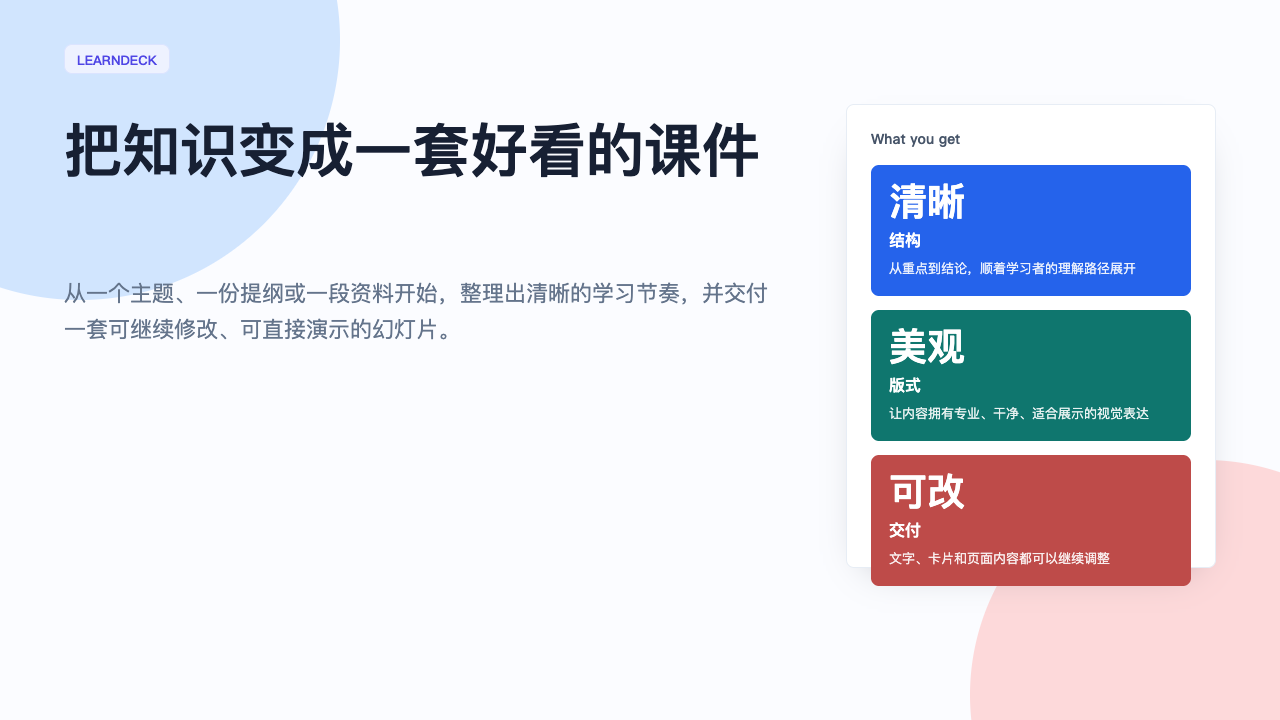
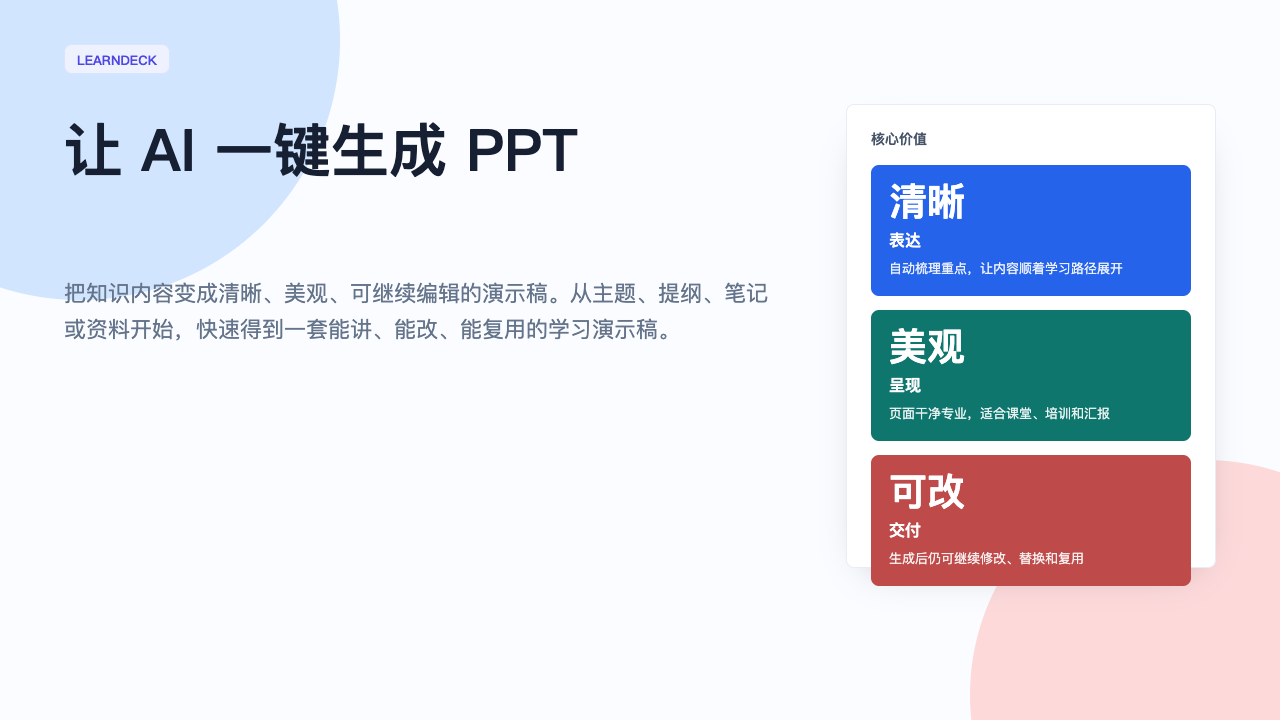
Make English README default and add English screenshots

diff --git a/README.en.md b/README.en.md
@@ -1,78 +1,69 @@
 # LearnDeck English Introduction
 
 <p align="center">
-  <img src="assets/learn-deck-cover.png" alt="LearnDeck cover preview" width="900">
+  <img src="assets/learn-deck-cover-en.png" alt="LearnDeck cover preview" width="900">
 </p>
 
 ## What Is LearnDeck?
 
-LearnDeck is a presentation companion built for learning content.
+LearnDeck is an AI presentation companion for learning content.
 
-You can start with a topic, an outline, a course brief, an article summary, study notes, or even a rough idea. LearnDeck helps shape that material into a clear, polished, editable presentation deck that is easier to teach, easier to follow, and easier to refine.
+It helps you turn a topic, outline, notes, course material, article summary, or rough idea into a clear, beautiful, editable PPT. Instead of starting from a blank deck, you start with knowledge. LearnDeck helps shape that knowledge into a presentation people can follow.
 
-Its purpose is simple: turn knowledge into a learning path, not just a pile of slides.
+The idea is simple: let AI create the first high-quality PPT for you, then keep the result easy to revise, personalize, and reuse.
 
-## What Problem Does It Solve?
+## Why It Exists
 
-Most learning material does not fail because it lacks information. It usually struggles because the message is hard to organize and present:
+Learning content often has enough substance, but turning it into a deck takes time:
 
-- There are many important points, but no clear order
-- Notes are scattered and need a presentation-friendly structure
-- Slides become too text-heavy and hard to scan
-- Training or course material needs a more polished appearance
-- The final deck should remain editable and reusable
+- You need a clear order for the ideas
+- You need pages that are easy to scan
+- You need a polished look that feels presentation-ready
+- You need the result to stay editable after generation
+- You need something that works for teaching, training, reporting, or sharing
 
-LearnDeck is designed for exactly this kind of work. It acts like a thoughtful deck partner: first helping the content make sense, then turning it into pages that feel ready to present.
+LearnDeck is designed for that moment when you already have knowledge, but need a deck that makes it easier to teach and easier to understand.
 
-## Who Is It For?
+## Who It Is For
 
-LearnDeck is for anyone who needs to explain knowledge clearly:
+- Teachers, instructors, and workshop hosts
+- Course creators and knowledge creators
+- Teams preparing internal training or onboarding material
+- Learners and researchers turning notes into reports
+- Anyone who wants AI to turn scattered knowledge into a presentable PPT
 
-- **Teachers and instructors** who want to turn lesson plans into presentation-ready decks
-- **Course creators** who need polished materials for classes, workshops, or online lessons
-- **Knowledge creators** who want to turn articles, notes, and tutorials into shareable decks
-- **Training teams** preparing internal learning sessions and onboarding material
-- **Learners and researchers** who want to present study notes, summaries, or findings
-- **Teams** that need to turn scattered knowledge into meeting-ready pages
+## What You Get
 
-## What Do You Get?
+- **One-click PPT generation** from a topic, outline, notes, or learning material
+- **Clearer structure** with sections, key points, examples, and takeaways
+- **Polished pages** that feel ready for lessons, workshops, reports, and sharing
+- **Editable delivery** so you can keep refining the wording, flow, and style
+- **Reusable knowledge assets** that can grow into courses, training decks, or study reviews
 
-LearnDeck produces learning-oriented presentation decks, not just decorated pages.
-
-You can expect:
-
-- **A clearer structure** with topics, sections, highlights, examples, and takeaways
-- **A smoother teaching rhythm** arranged around how people understand information
-- **A more polished visual style** that works for lessons, workshops, reports, and sharing
-- **An editable result** that you can continue to revise, personalize, and reuse
-- **Reusable learning assets** that can become a course, a training deck, or a knowledge review
-
-## What Can You Create With It?
+## What Can You Create?
 
 LearnDeck is especially useful for:
 
 - Course introductions and lesson outlines
-- Classroom slides and knowledge cards
+- Classroom slides and learning cards
 - Internal training decks
 - Learning progress reports
-- Book club or study group presentations
+- Study group and book club presentations
 - Methodology explainers
 - Product or business knowledge training
 - Research summaries and knowledge reviews
 
-If the goal is to help people understand something more clearly, LearnDeck is a strong place to start.
+If your goal is to help people understand something more clearly, LearnDeck gives you a strong first deck.
 
 ## The Experience
 
-Using LearnDeck feels like a simple four-step flow:
-
-1. **Bring the material**: share a topic, notes, outline, article summary, or course content
-2. **Shape the story**: organize the material into titles, key points, examples, steps, and conclusions
-3. **Create the deck**: produce a coherent set of presentation pages with a consistent visual style
-4. **Refine the result**: adjust the tone, wording, sequence, brand, or classroom style
+1. **Bring content**: start with a topic, outline, notes, article summary, or course material
+2. **Let AI shape it**: organize the message into titles, key points, examples, and takeaways
+3. **Create PPT**: get a coherent deck with a clean visual style and a clear learning rhythm
+4. **Edit freely**: adjust wording, tone, brand, sequence, and classroom style
 
 <p align="center">
-  <img src="assets/learn-deck-flow.png" alt="LearnDeck flow preview" width="900">
+  <img src="assets/learn-deck-flow-en.png" alt="LearnDeck flow preview" width="900">
 </p>
 
 ## Why The Name LearnDeck?
@@ -81,12 +72,12 @@ Using LearnDeck feels like a simple four-step flow:
 
 “Deck” stands for a complete presentation that can be taught, shared, edited, and reused.
 
-LearnDeck is not about producing a single static page. It is about helping knowledge become a complete deck with flow, clarity, and presentation value.
+LearnDeck is not just a slide maker. It is a learning-deck partner that helps knowledge become a complete presentation with flow, clarity, and visual polish.
 
 ## Vision
 
-LearnDeck aims to make high-quality learning materials easier to create.
+LearnDeck aims to make high-quality learning decks easier to create.
 
-It is for people who already have ideas, notes, expertise, or teaching material, but do not want to spend most of their time wrestling with structure, layout, and polish. A good deck should help the presenter speak more clearly and help the audience understand more easily.
+It is for people who have ideas, notes, expertise, or teaching material, but do not want to spend most of their time shaping structure and polishing pages. A good PPT should help the presenter speak clearly and help the audience understand easily.
 
 LearnDeck exists to make that bridge lighter, faster, and more beautiful.

diff --git a/README.md b/README.md
@@ -1,69 +1,94 @@
 # LearnDeck
 
 <p align="center">
-  <img src="assets/learn-deck-cover.png" alt="LearnDeck cover preview" width="900">
+  <a href="README.zh-CN.md">简体中文</a> · English
 </p>
 
 <p align="center">
-  <strong>把知识内容变成清晰、美观、可继续编辑的学习演示稿。</strong><br>
-  <strong>Turn learning material into clear, polished, editable presentation decks.</strong>
+  <img src="assets/learn-deck-cover-en.png" alt="LearnDeck English cover preview" width="900">
 </p>
 
 <p align="center">
-  <a href="README.zh-CN.md">中文介绍</a> ·
-  <a href="README.en.md">English Introduction</a>
+  <strong>Let AI create PPTs in one click.</strong><br>
+  Turn knowledge into clear, polished, editable presentation decks.
 </p>
 
 ---
 
-## 中文简介
+## What Is LearnDeck?
 
-LearnDeck 是一个面向学习内容的演示稿创作助手。它适合把课程提纲、学习笔记、文章摘要、培训资料、知识复盘或一个简单主题，整理成一套结构清楚、视觉统一、可以继续修改的演示文稿。
+LearnDeck is an AI presentation companion for learning content.
 
-它关注的不是“把文件换一种格式”，而是帮助内容变得更容易讲、更容易看、更容易被学习者理解。
+It helps you turn a topic, outline, notes, course material, article summary, or rough idea into a clear, beautiful, editable PPT. Instead of starting from a blank deck, you start with knowledge. LearnDeck helps shape that knowledge into a presentation people can follow.
 
-### 适合谁
+The idea is simple: let AI create the first high-quality PPT for you, then keep the result easy to revise, personalize, and reuse.
 
-- 老师、讲师、训练营主理人
-- 知识博主、课程创作者、内容策划
-- 需要做内部培训、学习汇报、知识分享的团队
-- 想把零散笔记整理成正式演示材料的人
+## Why It Exists
 
-### 你会得到什么
+Learning content often has enough substance, but turning it into a deck takes time:
 
-- 一套可以直接讲解的学习演示稿
-- 更清楚的章节、重点和表达节奏
-- 更干净、更有质感的页面视觉
-- 可以继续编辑、替换文案和复用的交付物
+- You need a clear order for the ideas
+- You need pages that are easy to scan
+- You need a polished look that feels presentation-ready
+- You need the result to stay editable after generation
+- You need something that works for teaching, training, reporting, or sharing
 
-更多中文介绍见 [README.zh-CN.md](README.zh-CN.md)。
+LearnDeck is designed for that moment when you already have knowledge, but need a deck that makes it easier to teach and easier to understand.
 
----
+## Who It Is For
 
-## English Overview
+- Teachers, instructors, and workshop hosts
+- Course creators and knowledge creators
+- Teams preparing internal training or onboarding material
+- Learners and researchers turning notes into reports
+- Anyone who wants AI to turn scattered knowledge into a presentable PPT
 
-LearnDeck is a presentation companion for learning content. It helps turn course outlines, notes, article summaries, training material, knowledge reviews, or a simple topic into a clear, polished, editable presentation deck.
+## What You Get
 
-It is not just about producing slides. It is about shaping knowledge into a deck that is easier to teach, easier to follow, and easier to reuse.
+- **One-click PPT generation** from a topic, outline, notes, or learning material
+- **Clearer structure** with sections, key points, examples, and takeaways
+- **Polished pages** that feel ready for lessons, workshops, reports, and sharing
+- **Editable delivery** so you can keep refining the wording, flow, and style
+- **Reusable knowledge assets** that can grow into courses, training decks, or study reviews
 
-### Who It Is For
+## What Can You Create?
 
-- Teachers, trainers, mentors, and workshop hosts
-- Course creators, knowledge creators, and content planners
-- Teams preparing internal learning sessions or knowledge-sharing decks
-- Anyone who wants to turn scattered notes into a presentation-ready deck
+LearnDeck is especially useful for:
 
-### What You Get
+- Course introductions and lesson outlines
+- Classroom slides and learning cards
+- Internal training decks
+- Learning progress reports
+- Study group and book club presentations
+- Methodology explainers
+- Product or business knowledge training
+- Research summaries and knowledge reviews
 
-- A presentation deck ready for teaching or sharing
-- A clearer learning flow with sections, highlights, and takeaways
-- A polished visual style that makes ideas easier to scan
-- An editable deliverable you can refine and reuse
+If your goal is to help people understand something more clearly, LearnDeck gives you a strong first deck.
 
-Read the full English introduction in [README.en.md](README.en.md).
+## The Experience
 
----
+1. **Bring content**: start with a topic, outline, notes, article summary, or course material
+2. **Let AI shape it**: organize the message into titles, key points, examples, and takeaways
+3. **Create PPT**: get a coherent deck with a clean visual style and a clear learning rhythm
+4. **Edit freely**: adjust wording, tone, brand, sequence, and classroom style
 
 <p align="center">
-  <img src="assets/learn-deck-flow.png" alt="LearnDeck flow preview" width="900">
+  <img src="assets/learn-deck-flow-en.png" alt="LearnDeck English flow preview" width="900">
 </p>
+
+## Why The Name LearnDeck?
+
+“Learn” stands for learning content, knowledge sharing, and teaching moments.
+
+“Deck” stands for a complete presentation that can be taught, shared, edited, and reused.
+
+LearnDeck is not just a slide maker. It is a learning-deck partner that helps knowledge become a complete presentation with flow, clarity, and visual polish.
+
+## Vision
+
+LearnDeck aims to make high-quality learning decks easier to create.
+
+It is for people who have ideas, notes, expertise, or teaching material, but do not want to spend most of their time shaping structure and polishing pages. A good PPT should help the presenter speak clearly and help the audience understand easily.
+
+LearnDeck exists to make that bridge lighter, faster, and more beautiful.
